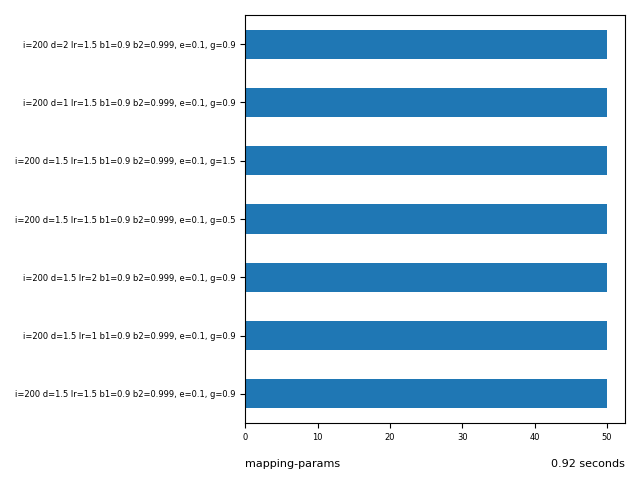
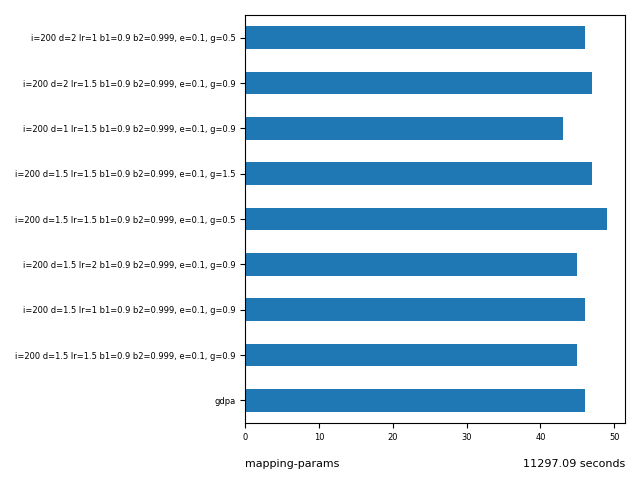
update results

diff --git a/workspaces/mapping-params/mapping-params-eval.py b/workspaces/mapping-params/mapping-params-eval.py
@@ -10,6 +10,30 @@ from fast_analysis import FastHolisticFPAnalysis
 from functools import partial
 
 
+def gdpa(system: System) -> bool:
+    analysis = HolisticFPAnalysis(limit_factor=10, reset=False)
+    extractor = PriorityExtractor()
+    cost_function = InvslackCost(extractor=extractor, analysis=analysis)
+    stop_function = StandardStop(limit=100)
+    delta_function = AvgSeparationDelta(factor=1.5)
+    batch_cost_function = VectorHolisticFPBatchCosts(PrioritiesMatrix())
+    gradient_function = StandardGradient(delta_function=delta_function,
+                                         batch_cost_function=batch_cost_function)
+    update_function = NoisyAdam()
+    optimizer = StandardGradientDescent(extractor=extractor,
+                                        cost_function=cost_function,
+                                        stop_function=stop_function,
+                                        gradient_function=gradient_function,
+                                        update_function=update_function,
+                                        verbose=False)
+
+    pd = PDAssignment(normalize=True)
+    pd.apply(system)
+    optimizer.apply(system)
+    analysis.apply(system)
+    return system.is_schedulable()
+
+
 def gdpa_mapping(system: System, **kwargs) -> bool:
     i = kwargs["i"]
     d = kwargs["d"]
@@ -58,15 +82,21 @@ if __name__ == '__main__':
                           deadline_factor_min=0.5,
                           deadline_factor_max=1) for i in range(n)]
 
-    utilizations = [0.5]
+    utilizations = [0.75]
 
-    tools = [build_func(i=200, d=1.5, lr=1.5, b1=0.9, b2=0.999, e=0.1, g=0.9),
-             build_func(i=200, d=1.5, lr=1, b1=0.9, b2=0.999, e=0.1, g=0.9),
-             build_func(i=200, d=1.5, lr=2, b1=0.9, b2=0.999, e=0.1, g=0.9),
-             build_func(i=200, d=1.5, lr=1.5, b1=0.9, b2=0.999, e=0.1, g=0.5),
-             build_func(i=200, d=1.5, lr=1.5, b1=0.9, b2=0.999, e=0.1, g=1.5),
-             build_func(i=200, d=1, lr=1.5, b1=0.9, b2=0.999, e=0.1, g=0.9),
-             build_func(i=200, d=2, lr=1.5, b1=0.9, b2=0.999, e=0.1, g=0.9),]
+    tools = [
+        ("gdpa", gdpa),
+        build_func(i=200, d=1.5, lr=1.5, b1=0.9, b2=0.999, e=0.1, g=0.9),
+        build_func(i=200, d=1.5, lr=1, b1=0.9, b2=0.999, e=0.1, g=0.9),
+        build_func(i=200, d=1.5, lr=2, b1=0.9, b2=0.999, e=0.1, g=0.9),
+        build_func(i=200, d=1.5, lr=1.5, b1=0.9, b2=0.999, e=0.1, g=0.5),
+        build_func(i=200, d=1.5, lr=1.5, b1=0.9, b2=0.999, e=0.1, g=1.5),
+        build_func(i=200, d=1, lr=1.5, b1=0.9, b2=0.999, e=0.1, g=0.9),
+        build_func(i=200, d=2, lr=1.5, b1=0.9, b2=0.999, e=0.1, g=0.9),
+        build_func(i=200, d=2, lr=1, b1=0.9, b2=0.999, e=0.1, g=0.5)
+    ]
+
+    # best: d=1.5 lr=1.5 b1=0.9 b2=0.999 e=0.1 g=0.5
 
     labels, funcs = zip(*tools)
     runner = SchedRatioEval("mapping-params", labels=labels, funcs=funcs,

diff --git a/workspaces/mapping/mapping_eval.py b/workspaces/mapping/mapping_eval.py
@@ -47,12 +47,12 @@ def gdpa_mapping(system: System) -> bool:
     analysis = HolisticFPAnalysis(limit_factor=10, reset=False)
     extractor = MappingPriorityExtractor()
     cost_function = InvslackCost(extractor=extractor, analysis=analysis)
-    stop_function = StandardStop(limit=100)
+    stop_function = StandardStop(limit=200)
     delta_function = AvgSeparationDelta(factor=1.5)
     batch_cost_function = VectorHolisticFPBatchCosts(MappingPrioritiesMatrix())
     gradient_function = StandardGradient(delta_function=delta_function,
                                          batch_cost_function=batch_cost_function)
-    update_function = NoisyAdam()
+    update_function = NoisyAdam(lr=1.5, beta1=0.9, beta2=0.999, epsilon=0.1, gamma=0.5)
     optimizer = StandardGradientDescent(extractor=extractor,
                                         cost_function=cost_function,
                                         stop_function=stop_function,
